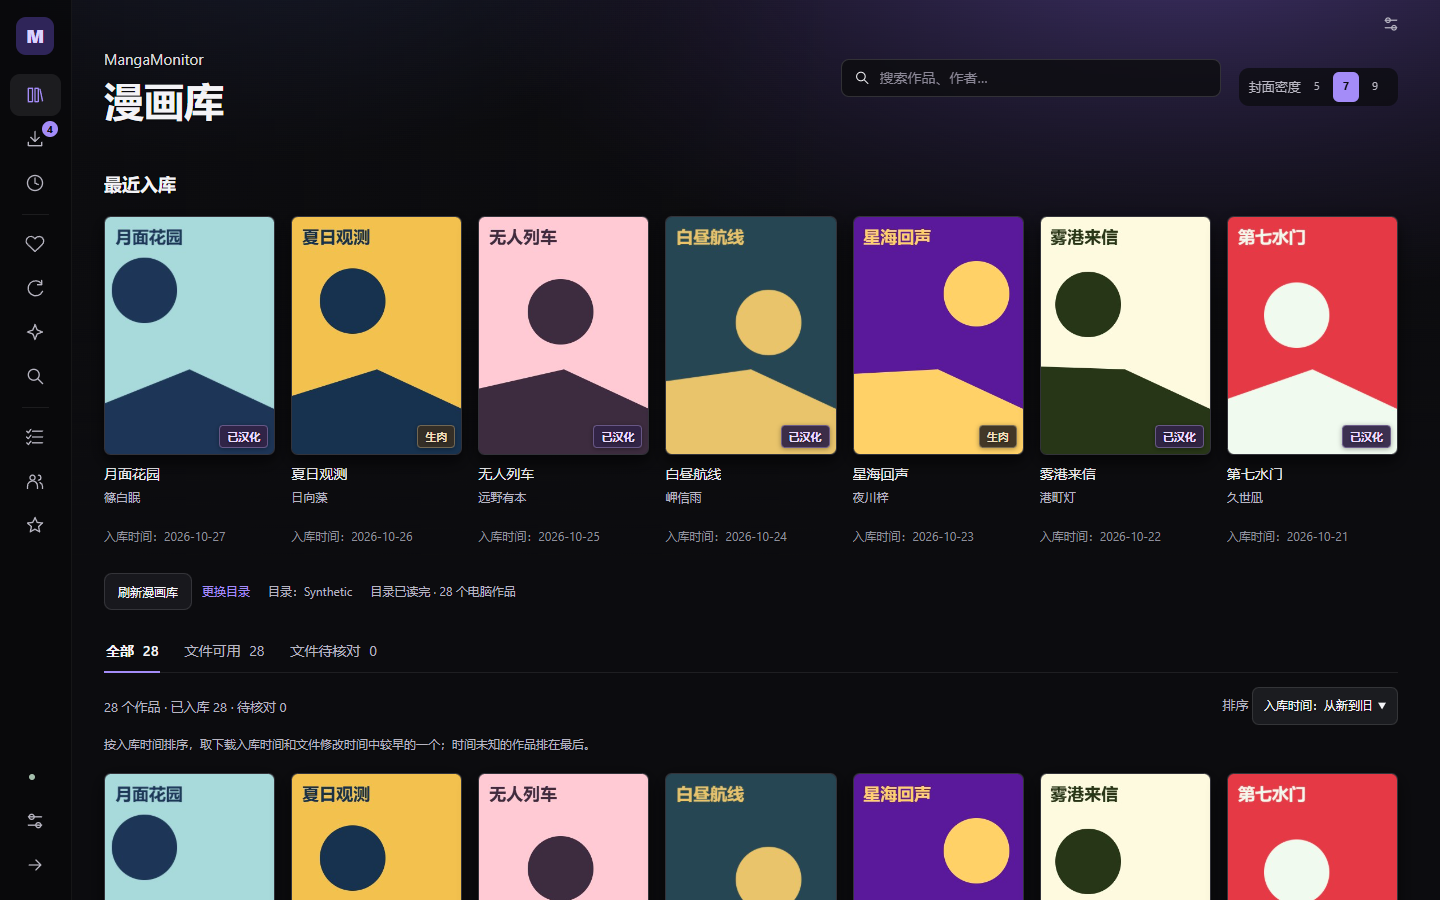
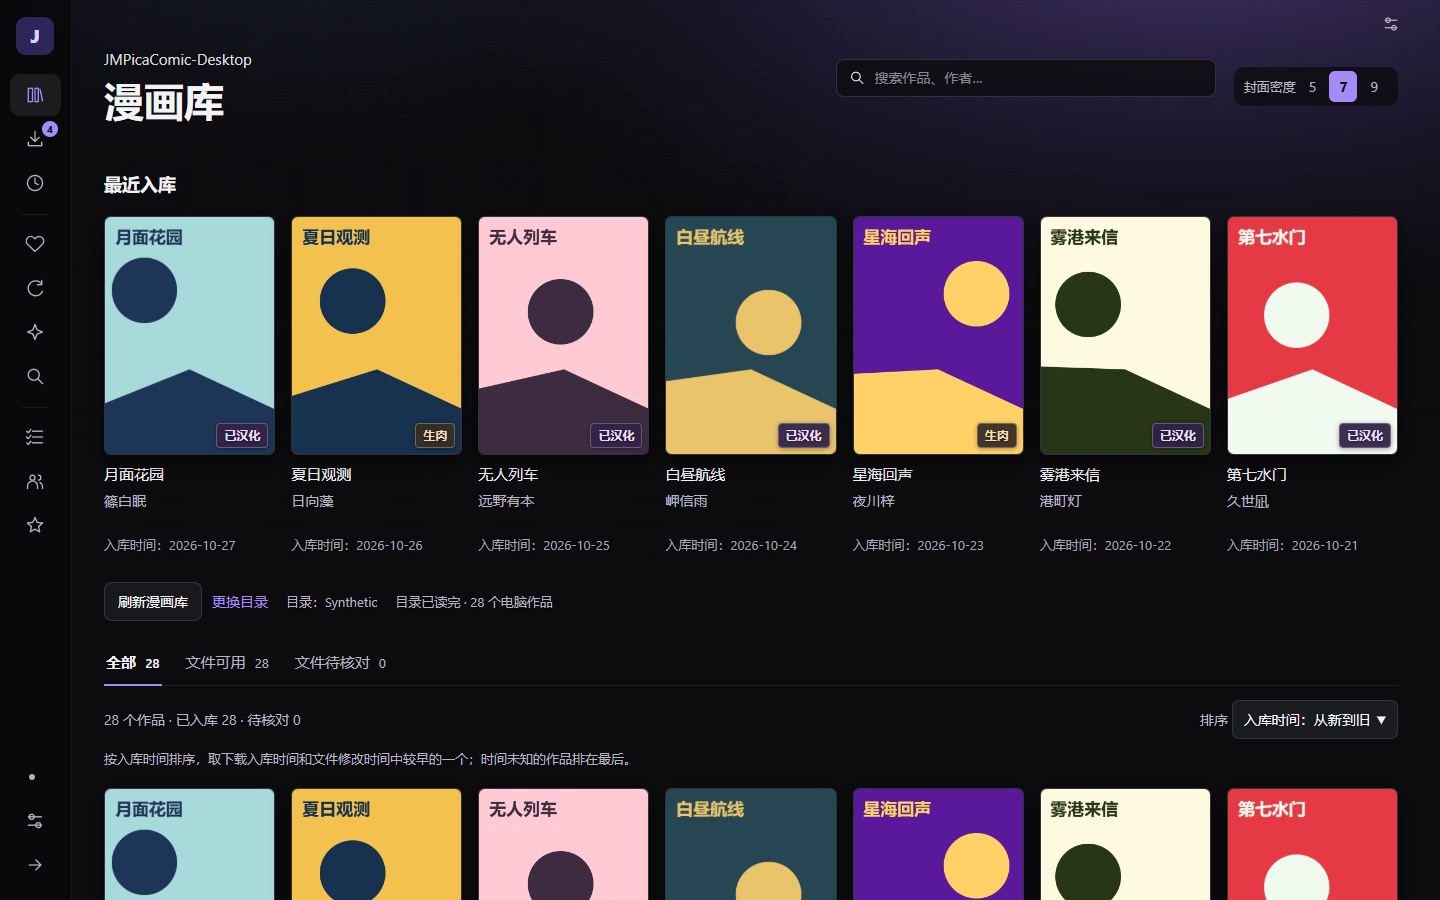
chore(release): prepare 1.1.0 under the new display name
Bump the version, add release notes and update status docs and screenshots. The
app now shows JMPicaComic-Desktop; the install name, identifier, executable and
data directory stay so existing data keeps working. Replace the personal path in
three old notes.

Rust changes have not been compiled locally; CI is the first verification.

diff --git a/apps/local-workbench/index.html b/apps/local-workbench/index.html
@@ -4,9 +4,12 @@
     <meta charset="UTF-8" />
     <meta name="viewport" content="width=device-width, initial-scale=1.0" />
     <meta name="theme-color" content="#17181b" />
-    <meta name="description" content="MangaMonitor 本地工作台交互样例，使用原创虚构作品和模拟任务。" />
+    <meta
+      name="description"
+      content="JMPicaComic-Desktop 本地工作台交互样例，使用原创虚构作品和模拟任务。"
+    />
     <link rel="icon" type="image/svg+xml" href="/favicon.svg" />
-    <title>MangaMonitor · 本地工作台样例</title>
+    <title>JMPicaComic-Desktop · 本地工作台样例</title>
   </head>
   <body>
     <div id="root"></div>

diff --git a/apps/local-workbench/src/UiSidebar.tsx b/apps/local-workbench/src/UiSidebar.tsx
@@ -119,14 +119,14 @@ export function UiSidebar({
     >
       <button
         className="brand"
-        aria-label="MangaMonitor 首页"
+        aria-label="JMPicaComic-Desktop 首页"
         onClick={() => onNavigate("library")}
       >
         <span className="brand-mark">
-          M<span />
+          J<span />
         </span>
         <span className="ui-brand-name">
-          MangaMonitor<small>你的漫画，井然有序。</small>
+          JMPicaComic<small>你的漫画，井然有序。</small>
         </span>
       </button>
       <nav

diff --git a/apps/local-workbench/tests/library-ui.spec.ts b/apps/local-workbench/tests/library-ui.spec.ts
@@ -654,7 +654,7 @@ test("native diagnostics show real snapshot states, omit private data and link t
   await page.getByTestId("nav-settings").click();
   await page.getByTestId("settings-network").click();
   await expect(page.getByTestId("diagnostics-version")).toHaveText(
-    "MangaMonitor 1.0.0 · bbbbbbb",
+    "JMPicaComic-Desktop 1.0.0 · bbbbbbb",
   );
   const report = await page.getByTestId("diagnostic-summary").inputValue();
   expect(report).toContain("版本：1.0.0 · bbbbbbb · windows");

diff --git a/apps/local-workbench/src/DiagnosticsPanel.tsx b/apps/local-workbench/src/DiagnosticsPanel.tsx
@@ -119,7 +119,7 @@ export function DiagnosticsPanel({
       </p>
       <p className="settings-help" data-testid="diagnostics-version">
         {info
-          ? `MangaMonitor ${info.version} · ${info.revision?.slice(0, 7) ?? "本地构建"}`
+          ? `JMPicaComic-Desktop ${info.version} · ${info.revision?.slice(0, 7) ?? "本地构建"}`
           : infoFailed
             ? "版本信息暂时无法读取。"
             : "正在读取版本…"}

diff --git a/apps/local-workbench/src/diagnostics.ts b/apps/local-workbench/src/diagnostics.ts
@@ -215,7 +215,7 @@ export interface DiagnosticState {
 export function diagnosticSummary(state: DiagnosticState): string {
   const { info, library, downloads } = state;
   const lines = [
-    "MangaMonitor 状态摘要",
+    "JMPicaComic-Desktop 状态摘要",
     info
       ? `版本：${info.version} · ${info.revision?.slice(0, 7) ?? "本地构建"} · ${info.platform}`
       : "版本：未取得",

diff --git a/apps/local-workbench/src/LibraryWorkbench.tsx b/apps/local-workbench/src/LibraryWorkbench.tsx
@@ -863,7 +863,7 @@ export function LibraryWorkbench({
         <>
           <div className="page-heading library-heading">
             <div>
-              <div className="product-name">MangaMonitor</div>
+              <div className="product-name">JMPicaComic-Desktop</div>
               <h1>漫画库</h1>
               <p>浏览电脑漫画库中的作品与文件信息</p>
             </div>

diff --git a/apps/local-workbench/src/NativeDownloads.tsx b/apps/local-workbench/src/NativeDownloads.tsx
@@ -472,7 +472,7 @@ export function NativeDownloads({
       >
         <div className="page-heading">
           <div>
-            <div className="eyebrow">MangaMonitor</div>
+            <div className="eyebrow">JMPicaComic-Desktop</div>
             <h1>
               下载队列{" "}
               <span className="heading-count">

diff --git a/apps/local-workbench/src/App.tsx b/apps/local-workbench/src/App.tsx
@@ -1366,7 +1366,7 @@ export default function App() {
           }
         >
           <div>
-            <div className="product-name">MangaMonitor</div>
+            <div className="product-name">JMPicaComic-Desktop</div>
             <h1>{pageNames[page]}</h1>
             {page !== "library" && (
               <p>

diff --git a/apps/local-workbench/src-tauri/src/reader_windows.rs b/apps/local-workbench/src-tauri/src/reader_windows.rs
@@ -342,7 +342,7 @@ fn create_child<R: Runtime>(
         &reservation.label,
         WebviewUrl::App("index.html#reader-window".into()),
     )
-    .title("MangaMonitor · 手机小框阅读")
+    .title("JMPicaComic-Desktop · 小窗阅读")
     .inner_size(placement.width, placement.height)
     .position(
         f64::from(placement.x) / area.scale,

diff --git a/README.md b/README.md
@@ -17,14 +17,12 @@
 
 ![漫画库：最近入库和全部作品的封面墙](docs/images/library.png)
 
-<sub>截图是即将发布的新界面，软件内目前仍显示旧名 MangaMonitor。图中的作品、作者和封面都是合成示例，不含真实内容。</sub>
+<sub>图中的作品、作者和封面都是合成示例，不含真实内容。</sub>
 
 > [!WARNING]
-> **使用 JM 前请先看这里：** 1.0.2 内置的 JM 主域名已失效并变成停放页，JM 的登录、收藏、搜索和详情都会失败。在这个版本上登录 JM，账号密码可能已经发送到这个域名。
+> **还在用 1.0.2 请尽快升级：** 1.0.2 内置的 JM 主域名已失效并变成停放页，在这个版本上登录 JM，账号密码可能已经发送到这个域名。1.1.0 已修复。
 >
-> - 修复已经合入 `main`，但还没有发布新版本。在新版本发布前，**不要在 1.0.2 上登录 JM**。
-> - 作者更新和特别关注都要同时连接 JM 与哔咔，所以这两个功能也要等新版本才能正常使用。
-> - 如果 2026 年 10 月中旬之后在 1.0.2 上登录过 JM，建议修改 JM 密码；其他网站用了相同密码的，也一并修改。
+> 如果 2026 年 10 月中旬之后在 1.0.2 上登录过 JM，建议修改 JM 密码；其他网站用了相同密码的，也一并修改。
 
 ## 目录
 
@@ -243,7 +241,7 @@
 1. 从[发行页](https://github.com/gouluanjiang/JMPicaComic-Desktop/releases/latest)下载 `MangaMonitor.Dev_<版本>_x64-setup.exe`，可用同页的 `SHA256SUMS.txt` 核对文件。
 2. 关闭正在运行的程序和阅读小窗，然后运行安装包。
 3. 打开“设置 → 漫画库”，选择你的漫画文件夹。
-4. 打开“设置 → 账号与收藏”，连接 JM 和哔咔（JM 请先看上方提示）。
+4. 打开“设置 → 账号与收藏”，连接 JM 和哔咔。
 5. 关注几位作者，然后到“作者更新”点击“一键检查全部关注作者”。
 
 **运行环境：** Windows x64，需要 Microsoft Edge WebView2。缺少时安装程序可能会联网下载。
@@ -254,7 +252,7 @@
 - **内容来自第三方网站：** 这些网站可能包含成人内容，也可能随时不可用。请遵守当地法律和网站条款。
 - **安装包没有代码签名：** Windows 可能弹出安全提示，请只从本仓库发行页下载。
 - **目前没有内置更新器：** 程序不会检查自身的新版本，新版本需要手动下载安装。更新器已列入[未来计划](#未来计划)。
-- **软件名称：** 本项目原名 MangaMonitor，软件内的名称会在下个版本改为 JMPicaComic-Desktop。安装名称 MangaMonitor Dev 和内部标识保持不变，只是为了沿用原有的安装记录和数据，不代表测试版。
+- **软件名称：** 本项目原名 MangaMonitor。安装名称 MangaMonitor Dev 和内部标识保持不变，只是为了沿用原有的安装记录和数据，不代表测试版。
 - **自动检查的范围：** 只有特别关注会在启动时自动检查；普通关注要手动点击。程序不会定时扫描，退出后也不会检查，任何检查都不会自动下载。
 - **不靠猜测判断同一本：** 程序不按相似标题判断，也不自动合并两个网站的同一部作品。所以有文件但没有来源记录的旧漫画，可能显示为“未入库”或“待核对”。
 
@@ -277,16 +275,10 @@
 
 ## 未来计划
 
-**正在进行**
-
-- 发布包含 JM 修复和新界面的版本。
-
-**想做的事**
-
 - **内置更新器：** 打开程序时自动检测新版本，选择更新后直接下载并安装，不用再到 GitHub 手动下载。
 - **更多内容类型和来源：** 不局限于漫画，计划加入 ASMR、视频等内容。
 
-这里列出的是方向，不代表发布日期。“想做的事”都还没有开始开发。
+这里列出的是方向，都还没有开始开发，也不代表发布日期。
 
 ## 参与项目
 
@@ -304,7 +296,7 @@
 
 工具链：Node 24、pnpm 11.19.0、Rust 1.98.1，依赖由锁文件固定。正式检查和构建在 GitHub Actions 上运行。
 
-更多资料：[贡献说明](CONTRIBUTING.md) · [开发约束](AGENTS.md) · [文档导航](docs/README.md) · [项目进度](docs/PROJECT_STATUS.md) · [1.0.2 版本说明](docs/RELEASE_NOTES_1.0.2.md) · [历史文档](docs/archive/README.md)
+更多资料：[贡献说明](CONTRIBUTING.md) · [开发约束](AGENTS.md) · [文档导航](docs/README.md) · [项目进度](docs/PROJECT_STATUS.md) · [1.1.0 版本说明](docs/RELEASE_NOTES_1.1.0.md) · [历史文档](docs/archive/README.md)
 
 历史文档不代表当前路线；已取消的自动匹配、手机名单和分类书单不会因此恢复。
 

diff --git a/docs/RELEASE_NOTES_1.1.0.md b/docs/RELEASE_NOTES_1.1.0.md
@@ -1,0 +1,46 @@
+# JMPicaComic-Desktop 1.1.0
+
+本项目原名 MangaMonitor。这一版修复了 JM 无法使用的问题，并重新设计了界面。
+
+## 请先看：JM 账号安全
+
+1.0.2 内置的 JM 主域名后来失效，变成了停放页。在 1.0.2 上登录 JM 时，账号密码可能已经发送到这个域名。
+
+如果你在 2026 年 10 月中旬之后用 1.0.2 登录过 JM，建议修改 JM 密码；其他网站用了相同密码的，也一并修改。1.1.0 在发送账号密码之前，会先验证域名确实是 JM 的服务。
+
+## 修复
+
+- **JM 恢复可用：** 更新了固定域名列表，一个域名失效时会切换到下一个。登录、收藏、搜索和详情都恢复正常。
+- **JM 每周必看恢复可用：** JM 返回了没有名称的榜单类型，导致整个榜单加载失败。
+- **入库时间恢复准确：** 取下载入库时间和文件修改时间中较早的一个。重新读取目录不会再让所有作品都变成同一天入库，“最近入库”也会显示真正最新的作品。
+- **卡片不再显示文件名：** 没有作者资料的作品会显示“作者资料未取得”，不再把 ZIP 文件名放在标题下面。
+
+## 新功能
+
+- **全新界面：** 窄图标侧栏，封面优先，自定义背景作为顶部横幅。漫画库新增“最近入库”。
+- **更大的文字：** 正文和按钮放大到 14px，次要信息至少 13px，灰色文字也更亮。
+- **按文件内容核对：** 漫画文件夹被迁移、恢复或重新选择后，已下载记录可能显示“目录不可用”，即使文件还在。现在可以在“下载失败 / 需要处理”点击“按文件内容核对”恢复这些记录。这一步只读取漫画文件，不会改动它们。
+- **批量移除历史记录：** 文件确实不在了的已下载记录，可以一次移除，文件不受影响。
+- **线路诊断：** “设置 → 网络与诊断”可以查看当前线路和异常的 JM 域名。
+
+## 其他变化
+
+- 封面上不再显示“未知”语言标记，详情页仍然保留。
+- 网络故障时更快结束等待：连接超时 10 秒，切换域名最多 45 秒，整站故障时短暂快速失败。
+- 软件内的名称改为 JMPicaComic-Desktop。
+
+## 升级
+
+退出主窗口和所有阅读小窗后运行安装包，**不需要卸载旧版**，漫画库、关注、下载记录和设置都会保留。
+
+安装名称仍是 MangaMonitor Dev，应用标识和数据目录也没有变，这是为了沿用现有数据。升级前建议备份，不要再用旧版程序打开新版写入的数据。
+
+## 已知事项
+
+- 安装包没有代码签名，Windows 可能弹出安全提示，请只从本仓库发行页下载。
+- 程序还没有内置更新器，新版本需要手动下载。
+- JM 图片域名仍然只有一个，它失效时阅读和下载会失败，需要等新版本更新。
+- 域名列表编译在程序里，JM 更换全部域名时也需要新版本。
+- 云端自动监控没有启用。
+
+验证范围、文件哈希和其他发行信息见本版本的发行页。
